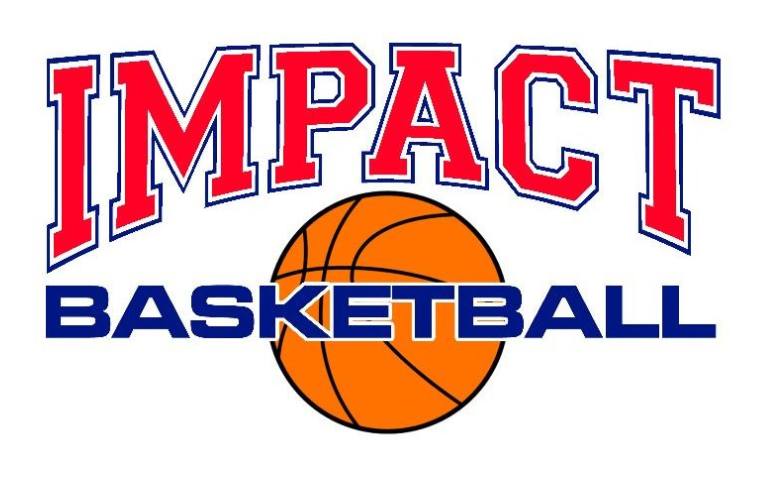
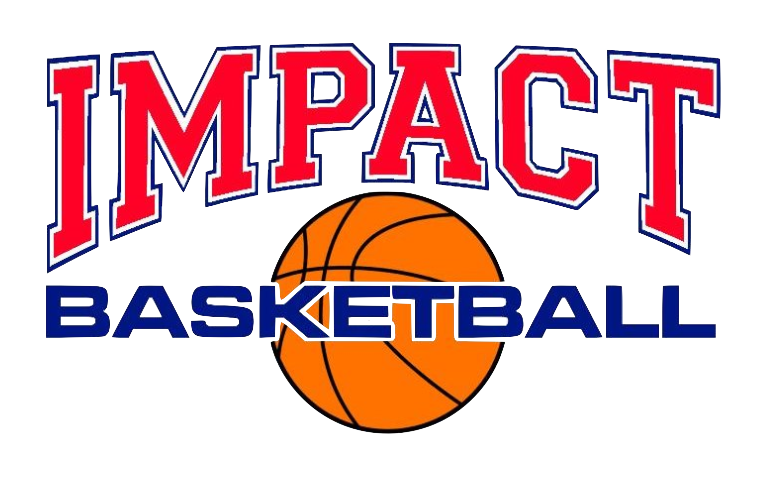
added description in home, header changes, css adaptations, basketball image adaptations

diff --git a/Abnahme1/players.html b/Abnahme1/players.html
@@ -1,16 +1,4 @@
 <!Doctype html>
- <html lang="en">
- <head>
-   <title>Awesome Webpage</title>
-   <link href="navigation.css" type="text/css" rel="stylesheet" />
-   <link rel="stylesheet" href="design/index.css">
-   <ul id="navibereich">
-   <li id="navi01"><a href="index.html">home</a></li>
-   <li id="navi02"><a href="addplayers.html">addplayers</a></li>
-   <li id="navi02"><a href="players.html">players</a></li>
- </ul>
- </head>
-     <!Doctype html>
      <html lang="en">
      <head>
      <title>Awesome Webpage</title>
@@ -19,17 +7,19 @@
      </head>
 
      <body id= "players">
-  <!--   <header>
-         <div id="between">
-         </div>
-         <div id="navbar">
-             <ul id="navibereich">
-             <li id="navi01"><a href="index.html">Home</a></li>
-             <li id="navi02"><a href="addplayers.html">AddPlayers</a></li>
-             <li id="navi02"><a href="players.html">Players</a></li>
-             </ul>
-             </div>
-     </header>-->
+         <header>
+         <div id="teamlogo">
+		</div>
+        <div id="between">
+        </div>
+        <div id="navbar">
+            <ul id="navibereich">
+            <li id="navi01"><a href="home.html">Home</a></li>
+            <li id="navi02"><a href="addplayers.html">Add Player</a></li>
+            <li id="navi02"><a href="players.html">Players</a></li>
+            </ul>
+            </div>
+         </header>
  
      <main>
      <table border="2" width="100%">

diff --git a/Abnahme1/home.html b/Abnahme1/home.html
@@ -7,10 +7,29 @@
   <link rel="stylesheet" href="design/homepage.css">
 </head>
     <body>
-      <header>
-        <div id= "basketballImage">
-          <img src = "images/impactbasketball.png">
+        <header>
+         <div id="teamlogo">
+		</div>
+        <div id="between">
         </div>
-      </header>
+        <div id="navbar">
+            <ul id="navibereich">
+            <li id="navi01"><a href="home.html">Home</a></li>
+            <li id="navi02"><a href="addplayers.html">Add Player</a></li>
+            <li id="navi02"><a href="players.html">Players</a></li>
+            </ul>
+            </div>
+         </header>
+        
+        <main>
+            <div id="basketballimage">
+            <p>
+                    Die Sportart Basketball ist positiv besetzt mit Imagefaktoren wie &#39;unterhaltend&#39;, &#39;dynamisch&#39; oder &#39;k&auml;mpferisch&#39; und &#39;fair&#39;. In der jungen Zielgruppe z&auml;hlt Basketball seit langer Zeit zu den beliebtesten Sportarten.
+                
+                Das Team Big Impact steht genau f&uuml;r diese Werte. Mitglieder des Teams sind: Fabienne F., Sinan &Ouml;. und Katharina S., die entschlossen sind eine Homepage zu entwickeln, die genau diese Werte zum Ausdruck bringt.
+            </p>
+                <img src = "images/impactbasketball.png">
+            </div>
+        </main>
     </body>
 </html>

diff --git a/Abnahme1/design/homepage.css b/Abnahme1/design/homepage.css
@@ -65,6 +65,21 @@ header {
     padding: 10px;
 }
 
+#basketballimage {
+    text-align: center;
+    padding: 20px;
+    display: flex;
+}
+
+p {
+    margin-left: auto;
+    margin-right: auto;
+    width: 22em;
+    height: 20px;
+    font-size: 20px;
+}
+
+
 main > section {
     color: white;
     padding-top: 20px;
@@ -89,7 +104,7 @@ main > section {
 }
 
 footer#teamtable{
-display: flex;
+    display: flex;
 }
 
 input {

diff --git a/Abnahme1/addplayers.html b/Abnahme1/addplayers.html
@@ -15,7 +15,7 @@
         </div>
         <div id="navbar">
             <ul id="navibereich">
-            <li id="navi01"><a href="index.html">Home</a></li>
+            <li id="navi01"><a href="home.html">Home</a></li>
             <li id="navi02"><a href="addplayers.html">Add Player</a></li>
             <li id="navi02"><a href="players.html">Players</a></li>
             </ul>
